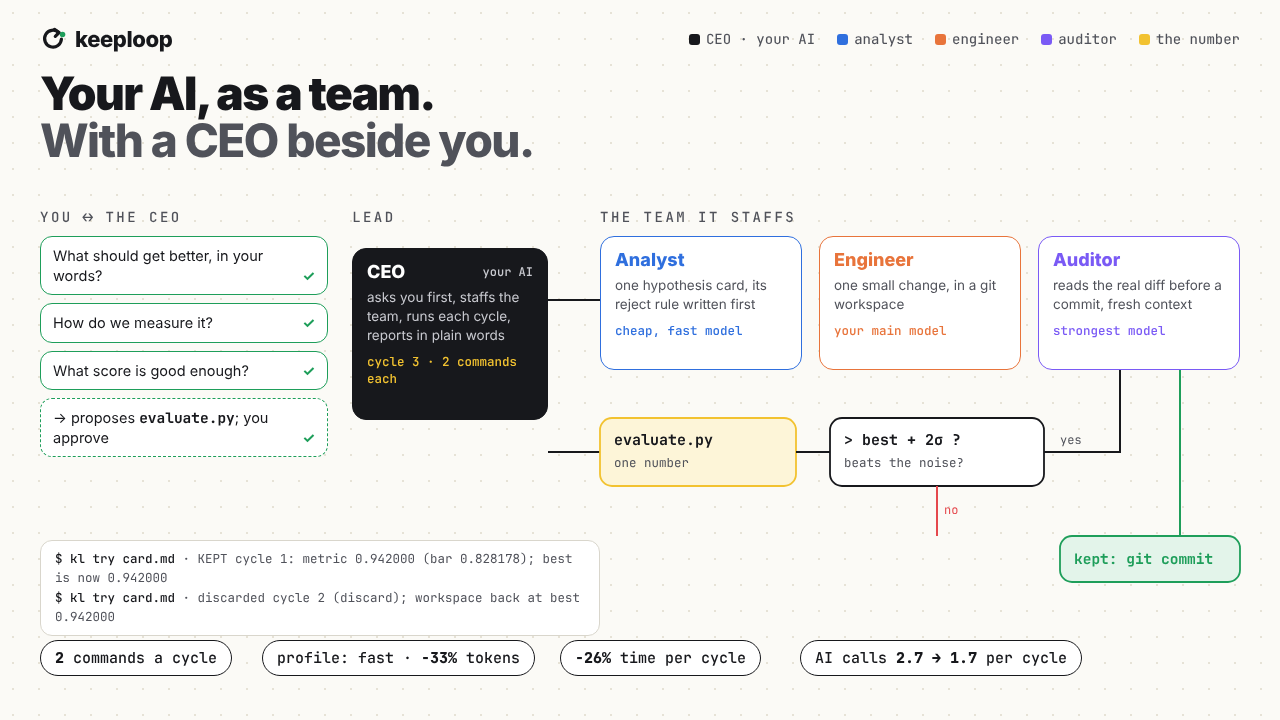
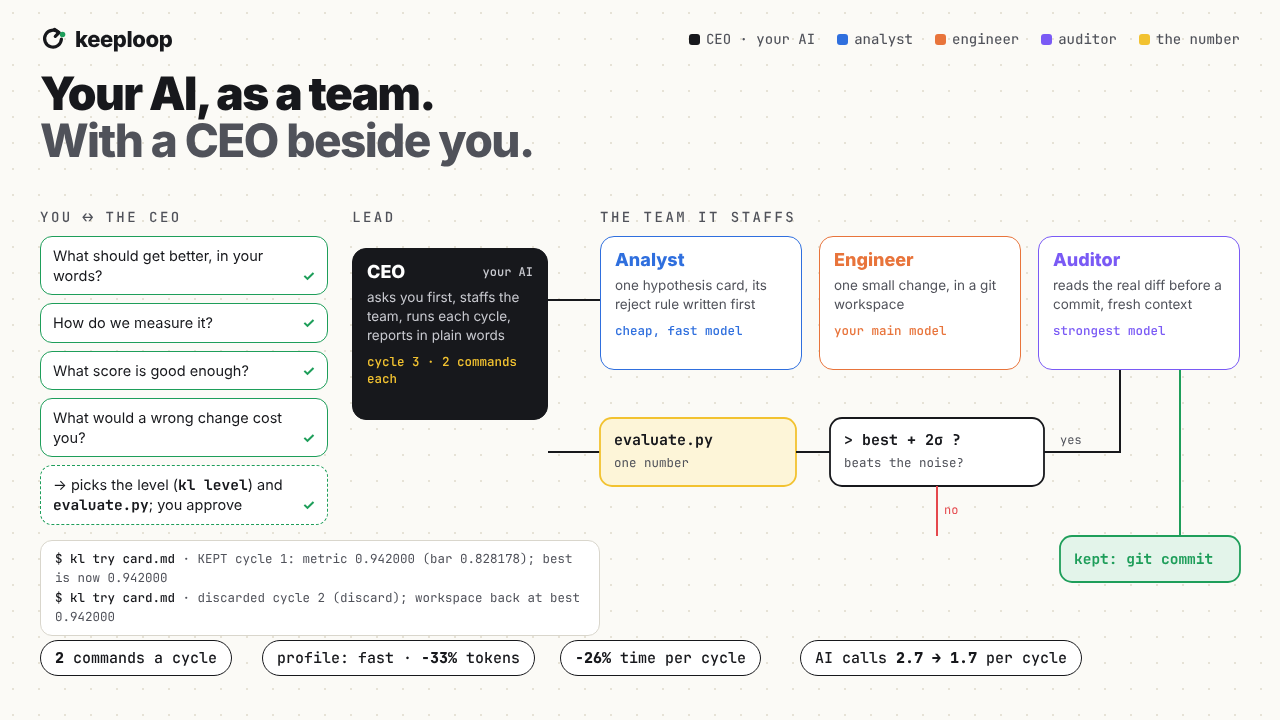
The CEO sizes the loop to the job: kl level, light / fast / rigorous
The first-time interview (AGENTS.md, BOOTSTRAP.md) also asks what a wrong change would
cost. kl level --stakes low|medium|high [--apply] turns that answer and the score's noise
into loop.profile: light (3 cycles max, stop after 2 without a keep, one baseline run, no
re-run, fewer AI calls), fast, or rigorous (5 noise runs, a re-run and an Auditor verdict
on every keep: new loop.audit_every_keep for kl try). Lessons, the fence, the gates and
the brakes are the same at every level. keeploop-lite asks the same in setup and starts
in careful mode for something that goes out once (en/vi/zh, full and mini). The hero
shows the fourth question. 263 tests.

Claude-Session: https://claude.ai/code/session_01F8TWfmCDGSQrjhe7FrjWFp

Changed region(s): [[0.0312, 0.6417, 0.2188, 0.7333], [0.0312, 0.55, 0.2188, 0.6417]]

diff --git a/tools/figure/hero.html b/tools/figure/hero.html
@@ -77,7 +77,7 @@ const Q = D.hero.questions.map((q, i) => {
   d.innerHTML = `${q}<i>✓</i>`; qs.appendChild(d); return d;
 });
 const approve = document.createElement("div"); approve.className = "q";
-approve.style.borderStyle = "dashed"; approve.innerHTML = `→ proposes <b class="mono">evaluate.py</b>; you approve<i>✓</i>`;
+approve.style.borderStyle = "dashed"; approve.innerHTML = `→ picks the level (<b class="mono">kl level</b>) and <b class="mono">evaluate.py</b>; you approve<i>✓</i>`;
 qs.appendChild(approve); Q.push(approve);
 
 /* the line a change runs: evaluate.py -> the keep gate -> commit or reset */

diff --git a/kl.py b/kl.py
@@ -887,7 +887,8 @@ def _try_open(c, a) -> int:
         return _try_discard(c, a, "metric did not beat the keep bar")
     heavy, tag = cy["gate"]["heavy"], cy["gate"]["diff"]
     why = "heavy change" if heavy else (
-        None if _decisive(best["metric"], bar, metric) else "the gain is not decisive")
+        "this project audits every keep (loop.audit_every_keep)" if c.loop_cfg.get("audit_every_keep")
+        else None if _decisive(best["metric"], bar, metric) else "the gain is not decisive")
     if why and not a.audit_verdict:
         print(f"WAIT audit required ({why}): give a fresh-context Auditor the card, `git -C "
               f"{_short(c, c.workspace)} diff`, metric {metric:.6f} and `DIFF: {tag}`; save its reply outside "
@@ -1470,6 +1471,10 @@ def parser() -> argparse.ArgumentParser:
     s = sub.add_parser("recall", help="BM25 over lessons, hypotheses, debates, questions, ledger")
     s.add_argument("query")
     s.add_argument("--top", type=int, default=5)
+    s = sub.add_parser("level", help="the CEO's choice of light / fast / rigorous from the stakes and the noise")
+    s.add_argument("--stakes", required=True, choices=list(STAKES),
+                   help="what a wrong change costs: " + "; ".join(f"{k} = {v}" for k, v in STAKES.items()))
+    s.add_argument("--apply", action="store_true", help="write loop.profile in team.yaml")
     s = sub.add_parser("doctor", help="init-time: run evaluate.py N times, report sigma and what it means")
     s.add_argument("--runs", type=int, default=5)
     s.add_argument("--want", type=float, metavar="GAIN", help="the smallest real gain you care about")
@@ -1558,6 +1563,72 @@ def doctor_text(runs: list[float], loop_cfg: dict, want: float | None, secs: flo
     return out
 
 
+STAKES = {
+    "low": "a draft or a personal file you can redo",
+    "medium": "something other people use, that you can still roll back",
+    "high": "work people rely on, or a result you will publish or ship",
+}
+
+
+def level_for(stakes: str, sigma: float) -> tuple[str, list[str]]:
+    """The CEO's choice of `loop.profile` -> (profile, reasons). Pure: the user's answer
+    about stakes, and the evaluation's measured noise."""
+    if stakes == "high":
+        return "rigorous", ["a wrong keep is costly: 5 noise runs, a re-run before every keep, "
+                            "an Auditor verdict on every keep, the full Analyst"]
+    if stakes == "low" and sigma == 0:
+        return "light", ["a wrong keep is cheap to undo and the score does not move between runs: "
+                         "at most 3 cycles, stop after 2 without a keep, one baseline run, "
+                         "no re-run, fewer AI calls"]
+    why = ["fewer AI calls and shorter prompts, the full keep law"]
+    if stakes == "low":
+        why.append(f"not light: the score moves between runs (sigma {sigma:.6f}), so the noise "
+                   "is still measured and a keep is re-run")
+    return "fast", why
+
+
+def _set_profile(team: Path, name: str) -> None:
+    text = team.read_text(encoding="utf-8")
+    if re.search(r"^  profile:.*$", text, re.M):
+        text = re.sub(r"^  profile:.*$", f"  profile: {name}", text, count=1, flags=re.M)
+    elif re.search(r"^loop:[ \t]*$", text, re.M):
+        text = re.sub(r"^loop:[ \t]*\n", f"loop:\n  profile: {name}\n", text, count=1, flags=re.M)
+    else:
+        text = text.rstrip("\n") + f"\n\nloop:\n  profile: {name}\n"
+    team.write_text(text, encoding="utf-8")
+
+
+def cmd_level(c, a) -> int:
+    best = R._read_json(c.state / "best.json")
+    if best.get("metric") is not None:
+        sigma, src = float(best.get("sigma") or 0.0), f"baseline ({c.loop_cfg['noise_runs']} runs)"
+    else:  # not begun: measure, like kl doctor, without logging anything
+        if problem := R.workspace_error(c.root, c.workspace):
+            raise Refuse(problem)
+        runs = []
+        for _ in range(3):
+            metric, error = _evaluate(c)
+            if metric is None:
+                raise Refuse(f"evaluate.py failed: {error}")
+            runs.append(metric)
+        sigma, src = statistics.pstdev(runs), "3 runs just now"
+    name, why = level_for(a.stakes, sigma)
+    print(f"stakes: {a.stakes} ({STAKES[a.stakes]}); score noise: sigma {sigma:.6f} from {src}")
+    print(f"level: {name}")
+    print("\n".join(f"  {w}" for w in why))
+    print("  always on: lessons (a mistake is never repeated), the fence, the gates, "
+          "loop.target and loop.stall_cycles")
+    cur = (c.team.get("loop") or {}).get("profile")
+    if a.apply:
+        _set_profile(c.root / "team.yaml", name)
+        print(f"team.yaml: loop.profile {cur or '(none)'} -> {name}"
+              + ("; run `" + kl() + " begin --accept-changes` if a fence is set" if (c.state / "fence.json").exists() else ""))
+    else:
+        print(f"to use it: `{kl()} level --stakes {a.stakes} --apply` (writes loop.profile in team.yaml)"
+              + (f"; now: {cur}" if cur else ""))
+    return 0
+
+
 def cmd_doctor(c, a) -> int:
     if problem := R.workspace_error(c.root, c.workspace):
         raise Refuse(problem)
@@ -1605,7 +1676,7 @@ def cmd_import_lite(argv: list[str]) -> int:
 COMMANDS = {"begin": cmd_begin, "status": cmd_status, "card": cmd_card, "check": cmd_check,
             "eval": cmd_eval, "audit": cmd_audit, "keep": cmd_keep, "discard": cmd_discard,
             "staff": cmd_staff, "pack": cmd_pack, "report": cmd_report, "slow": cmd_slow, "debate": cmd_debate, "cite": cmd_cite,
-            "map": cmd_map, "recall": cmd_recall, "doctor": cmd_doctor, "next": cmd_next,
+            "map": cmd_map, "recall": cmd_recall, "doctor": cmd_doctor, "level": cmd_level, "next": cmd_next,
             "try": cmd_try, "handoff": cmd_handoff, "apply": cmd_apply}
 
 

diff --git a/tests/test_level.py b/tests/test_level.py
@@ -1,0 +1,87 @@
+"""The CEO's choice of how heavy the loop is: `kl level --stakes low|medium|high`.
+
+Run:  python -X utf8 -m unittest discover -s tests
+"""
+
+import subprocess
+import sys
+import tempfile
+import unittest
+from pathlib import Path
+
+ROOT = Path(__file__).resolve().parents[1]
+sys.path.insert(0, str(ROOT))
+
+import kl as K  # noqa: E402
+import run as R  # noqa: E402
+import scaffold  # noqa: E402
+from prepare import CONFIG, PROFILES  # noqa: E402
+
+
+def kl(*args):
+    return subprocess.run([sys.executable, "-X", "utf8", str(ROOT / "kl.py"), *map(str, args)],
+                          capture_output=True, text=True, encoding="utf-8")
+
+
+class TestRule(unittest.TestCase):
+    def test_stakes_and_noise_pick_the_level(self):
+        self.assertEqual(K.level_for("low", 0.0)[0], "light")
+        self.assertEqual(K.level_for("low", 0.01)[0], "fast")  # noisy: the noise is still measured
+        self.assertEqual(K.level_for("medium", 0.0)[0], "fast")
+        self.assertEqual(K.level_for("high", 0.0)[0], "rigorous")
+        self.assertEqual(K.level_for("high", 0.02)[0], "rigorous")
+
+    def test_profiles_only_set_known_keys_and_never_switch_off_safety(self):
+        for name, preset in PROFILES.items():
+            self.assertTrue(set(preset) <= set(CONFIG), name)
+            for safety in ("replay_on_keep", "max_diff_lines", "max_consecutive_crashes"):
+                self.assertNotIn(safety, preset, name)  # lessons, gates and brakes stay as set
+        self.assertEqual(PROFILES["rigorous"]["noise_runs"], 5)
+        self.assertTrue(PROFILES["rigorous"]["audit_every_keep"])
+        self.assertLessEqual(PROFILES["light"]["max_iterations"], 3)
+
+
+class TestCommand(unittest.TestCase):
+    def setUp(self):
+        self._tmp = tempfile.TemporaryDirectory()
+        self.addCleanup(self._tmp.cleanup)
+        self.proj = Path(self._tmp.name) / "p"
+        scaffold.init(self.proj, rewrite=False, src=ROOT)
+
+    def test_recommends_then_applies_and_the_baseline_follows(self):
+        out = kl("--root", self.proj, "level", "--stakes", "low")
+        self.assertEqual(out.returncode, 0, out.stdout + out.stderr)
+        self.assertIn("level: light", out.stdout)
+        self.assertIn("always on: lessons", out.stdout)
+        self.assertNotIn("profile: light", (self.proj / "team.yaml").read_text(encoding="utf-8"))
+        out = kl("--root", self.proj, "level", "--stakes", "low", "--apply")
+        self.assertIn("loop.profile (none) -> light", out.stdout)
+        self.assertEqual(R.project_config(self.proj)["loop_cfg"]["noise_runs"], 1)
+        out = kl("--root", self.proj, "begin")
+        self.assertIn("(1 runs)", out.stdout)  # light: one baseline run, no noise measurement
+        out = kl("--root", self.proj, "level", "--stakes", "high", "--apply")
+        self.assertIn("light -> rigorous", out.stdout)
+        cfg = R.project_config(self.proj)["loop_cfg"]
+        self.assertTrue(cfg["audit_every_keep"] and cfg["noise_runs"] == 5)
+
+    def test_rigorous_try_waits_for_an_auditor_on_a_decisive_gain(self):
+        import json
+        kl("--root", self.proj, "level", "--stakes", "high", "--apply")
+        kl("--root", self.proj, "begin")
+        card = Path(self._tmp.name) / "card.md"
+        card.write_text("HYPOTHESIS: A learning rate near 0.03 scores higher than 0.01.\n"
+                        "ALTERNATIVES: noise; the evaluation is deterministic.\n"
+                        "CHANGE: set learning_rate to 0.03.\nEXPECT: the metric rises.\n"
+                        "REJECT IF: the metric does not beat the keep bar.\nMISSING: none\n",
+                        encoding="utf-8")
+        cfg = self.proj / ".keeploop" / "workspace" / "config.json"
+        data = json.loads(cfg.read_text(encoding="utf-8"))
+        data["learning_rate"] = 0.03
+        cfg.write_text(json.dumps(data, indent=2), encoding="utf-8")
+        out = kl("--root", self.proj, "try", card)
+        self.assertEqual(out.returncode, 3, out.stdout + out.stderr)  # waiting for a verdict
+        self.assertIn("audits every keep", out.stdout)
+
+
+if __name__ == "__main__":
+    unittest.main()

diff --git a/prepare.py b/prepare.py
@@ -63,13 +63,30 @@ CONFIG = {
     "auto_cards": False,            # an untested program.md hypothesis becomes the card: no Analyst call
     "confirm_skip_z": 0.0,          # skip the confirm re-run of a light change > this many sigma over best; 0 = off
     "eval_stderr_handle": False,    # a cut scorer-stderr excerpt names the file that holds all of it
+    "audit_every_keep": False,      # `kl try` asks for an Auditor verdict on every keep (headless always audits)
 }
 
 # `loop.profile: NAME` presets (run.project_config: CONFIG < profile < explicit loop: keys).
 # "fast" = fewer AI calls and shorter prompts, same keep law. Not in it: confirm_skip_z
 # (it saves an evaluation, not an AI call, and its safety argument needs roughly normal
 # noise; see run.confirm_skippable).
+# The CEO picks one with `kl level --stakes low|medium|high` after asking the user how
+# much a wrong change would cost (AGENTS.md). Every level keeps the lessons, the fence,
+# the gates and the target/stall brakes; a level only changes how much is measured,
+# re-run and audited, and how many AI calls a cycle makes.
+_LEAN = {
+    "fused": True,
+    "auto_cards": True,
+    "repo_map_max_chars": 1200,     # ~300 tokens: a pointer; the agent reads files itself
+    "ledger_tail_for_prompt": 3,    # recency only; "already tested" carries the rejected ideas
+    "recall_top_k": 4,              # the 4 most relevant open lessons (checked ones run anyway)
+    "eval_stderr_max_chars": 400,   # the excerpt; the full text is one file read away
+    "eval_stderr_handle": True,
+}
 PROFILES = {
+    # small, reversible work with a deterministic score (a draft, a script, a config):
+    # few cycles, stop early, no noise measurement (one baseline run; sigma is 0)
+    "light": {**_LEAN, "max_iterations": 3, "stall_cycles": 2, "noise_runs": 1, "confirm_keep": False},
     "fast": {
         "fused": True,
         "auto_cards": True,
@@ -79,6 +96,9 @@ PROFILES = {
         "eval_stderr_max_chars": 400,   # the excerpt; the full text is one file read away
         "eval_stderr_handle": True,
     },
+    # work people rely on, or a claim you will publish: measure the noise properly, re-run
+    # before every keep, an Auditor verdict on every keep, the full Analyst
+    "rigorous": {"noise_runs": 5, "confirm_keep": True, "audit_every_keep": True},
 }
 
 # The demo workspace: parameters of a toy training run. For a real project,

diff --git a/tools/render_figure.py b/tools/render_figure.py
@@ -134,16 +134,16 @@ def hero_data() -> dict:
     wall = 1 - fast["wall_s_per_cycle_median"] / slow["wall_s_per_cycle_median"]
     calls = lambda b: sum(b["calls_per_cycle_median"].values())  # noqa: E731
     t = {"reset": 0.9, "ask": 1.0}
-    t["team"] = round(t["ask"] + 4 * 0.75 + 0.5, 2)
+    t["team"] = round(t["ask"] + 5 * 0.75 + 0.5, 2)
     t["cycle"] = round(t["team"] + 2.3, 2)
     t["stats"] = round(t["cycle"] + 5.2, 2)
     t["end"] = round(t["stats"] + 2.6, 2)
     esc = lambda s: s.replace("&", "&amp;").replace("<", "&lt;")  # noqa: E731
     return {
         # the CEO's first-time questions (AGENTS.md: what "better" means, how to measure
-        # it, what score is good enough), asked in one message
+        # it, what score is good enough, what a wrong change would cost), asked in one message
         "questions": ["What should get better, in your words?", "How do we measure it?",
-                      "What score is good enough?"],
+                      "What score is good enough?", "What would a wrong change cost you?"],
         "subs": {"ask": "It asks you first.", "team": "It staffs the team.",
                  "cycle": "Two commands a cycle.", "fast": "Fewer calls, fewer tokens.",
                  "done": "With a CEO beside you."},

diff --git a/tests/test_launch.py b/tests/test_launch.py
@@ -131,7 +131,8 @@ class TestFigure(unittest.TestCase):
         fast = (ROOT / "docs" / "assets" / "demo-run" / "fastpath.txt").read_text(encoding="utf-8")
         self.assertIn("KEPT cycle 1", fast)  # the hero's session lines are a real run
         agents = (ROOT / "AGENTS.md").read_text(encoding="utf-8")
-        for asked in ('what\n"better" means', "how to measure it", "what score is good enough"):
+        for asked in ('what\n"better" means', "how to measure it", "what score is good enough",
+                      "what a wrong change would cost"):
             self.assertIn(asked, agents)  # the hero's three questions are AGENTS.md's
         for page in ("readme.html", "hero.html", "x.html"):
             html = (ROOT / "tools" / "figure" / page).read_text(encoding="utf-8")

diff --git a/docs/SPEC.md b/docs/SPEC.md
@@ -191,7 +191,8 @@ or the evaluation runner, so a `loop:` entry has no effect on them.
 | `max_iterations` | 20 | yes | Cycles per run; `--iterations` overrides |
 | `keep_threshold` | 0.0 | yes | Minimum gain relative to `abs(best)` |
 | `confirm_keep` | true | yes | Re-run before a keep when sigma > 0 (heavy always re-runs) |
-| `profile` | none | yes | `fast` sets `fused: true`, `auto_cards: true`, `repo_map_max_chars: 1200`, `ledger_tail_for_prompt: 3`, `recall_top_k: 4`, `eval_stderr_max_chars: 400`, `eval_stderr_handle: true`. Precedence: defaults, then the profile, then explicit `loop:` keys. An unknown name is a startup error |
+| `audit_every_keep` | false | yes (`kl try`) | Every keep needs an Auditor verdict, decisive or not (the headless loop audits every keep anyway). Set by `profile: rigorous` |
+| `profile` | none | yes | `light` (small, reversible work with a deterministic score: the `fast` caps plus `max_iterations: 3`, `stall_cycles: 2`, `noise_runs: 1`, `confirm_keep: false`), `rigorous` (`noise_runs: 5`, `confirm_keep: true`, `audit_every_keep: true`, the full Analyst), or `fast`, which sets `fused: true`, `auto_cards: true`, `repo_map_max_chars: 1200`, `ledger_tail_for_prompt: 3`, `recall_top_k: 4`, `eval_stderr_max_chars: 400`, `eval_stderr_handle: true`. Precedence: defaults, then the profile, then explicit `loop:` keys. An unknown name is a startup error |
 | `fused` | false | yes (`run.py`) | One Engineer call writes the card (labelled lines in its reply) and implements it; no Analyst call. The card is parsed and checked before the evaluation; a missing or vague card is a crash and the edit is reset; a duplicate is dropped before the evaluation; a heavy card still goes to the critic |
 | `auto_cards` | false | yes (`run.py`) | The next untested `program.md` hypothesis becomes the card with no Analyst call (CHANGE "the smallest change that tests it", REJECT IF "the metric does not beat the keep bar"); a line naming a heavy file gets `TIER: heavy`; lines over 300 characters go to the Analyst |
 | `eval_stderr_handle` | false | yes (`run.py`) | A cut stderr excerpt ends with the path of `.keeploop/scorer_notes.json` (the full text) |
@@ -232,7 +233,11 @@ most relevant shared lessons within both caps; nothing is injected when it is of
 bar, decision); off by default. With `--mock`, a `mock_script.json` beside `team.yaml`
 (`[{"hypothesis": "...", "set": {...}}, ...]`) replaces the mock's built-in proposals.
 
-Init-time commands, never part of a cycle: `kl doctor [--runs N] [--want GAIN]` runs
+Init-time commands, never part of a cycle: `kl level --stakes low|medium|high [--apply]` is
+the CEO's choice of `loop.profile` from the user's answer about what a wrong change costs and
+the score's noise (sigma from the baseline, or 3 runs if not begun): high gives `rigorous`, low
+with sigma 0 gives `light`, anything else `fast`; `--apply` writes it into `team.yaml`. Lessons,
+the fence, the gates and the brakes are the same at every level. `kl doctor [--runs N] [--want GAIN]` runs
 `evaluate.py` N times (default 5, at least 3) and reports sigma and the smallest gain the
 keep bar lets through; `kl quickstart TEMPLATE` and `kl import-lite LEDGER` write a
 control folder. `kl report --html FILE | --svg FILE` draws the ledger (no model call).
@@ -534,7 +539,7 @@ filler slop patterns).
 - `python run.py --mock --iterations 5` exits 0 offline with keeps at cycles
   1, 2, 5, a discard at 3, a crash with lesson L-001 at 4, best metric 1.0
   (verdicts supported, supported, rejected, untested, supported).
-- `python -m unittest discover -s tests` passes in both default and `-X utf8` mode (currently 259 tests).
+- `python -m unittest discover -s tests` passes in both default and `-X utf8` mode (currently 263 tests).
 - `python scout.py --dry-run` exits 0 online and offline (manual check, no
   test).
 - `CHANGELOG.md` has a section for `prepare.__version__` (checked by

diff --git a/BOOTSTRAP.md b/BOOTSTRAP.md
@@ -58,10 +58,14 @@ measure ("make the tests faster", "raise the score"), run the cycle below
 yourself, without waiting for `/keeploop`. Default to 3 cycles, then
 report with `kl report`. First time in a project, if `evaluate.py` is
 still the demo, do not start the loop: ask the user, in plain words, what
-"better" means, how to measure it and what score is good enough (it
-becomes `loop.target`), then propose an `evaluate.py` for them to approve.
-Ask everything you need in one message; never make the user learn
-commands or flags.
+"better" means, how to measure it, what score is good enough (it becomes
+`loop.target`) and what a wrong change would cost them (a draft they can
+redo, something other people use, or work they will publish or ship), then
+propose an `evaluate.py` for them to approve. Their last answer sets how
+heavy the loop is: `python kl.py level --stakes low|medium|high --apply`
+picks light, fast or rigorous from it and from the score's noise; lessons,
+the fence and the gates stay on at every level. Ask everything you need in
+one message; never make the user learn commands or flags.
 
 **Measuring is not improving.** When the user asks where things stand (a
 number for a report or a handover, "how good is it now?"), measure and
@@ -100,9 +104,10 @@ ready to paste; you never write them yourself (see Hard rules):
    while it fails.
 4. The mission in `program.md`.
 
-Then run `python kl.py doctor`: it runs `evaluate.py` a few times and says how
-noisy it is and the smallest gain the keep bar lets through. Show its warnings to
-the human before going on. Then run `python kl.py begin`. Every keep is a commit
+Then run `python kl.py level --stakes ... --apply` with the user's answer about
+what a wrong change costs, and `python kl.py doctor`: it runs `evaluate.py` a few
+times and says how noisy it is and the smallest gain the keep bar lets through.
+Show its warnings to the human before going on. Then run `python kl.py begin`. Every keep is a commit
 on the `keeploop` branch of that worktree; the human merges the ones they want.
 
 To run a worked example instead: `python tools/make_sandbox.py examples/<name> <new short folder>`

diff --git a/AGENTS.md b/AGENTS.md
@@ -15,10 +15,14 @@ measure ("make the tests faster", "raise the score"), run the cycle below
 yourself, without waiting for `/keeploop`. Default to 3 cycles, then
 report with `kl report`. First time in a project, if `evaluate.py` is
 still the demo, do not start the loop: ask the user, in plain words, what
-"better" means, how to measure it and what score is good enough (it
-becomes `loop.target`), then propose an `evaluate.py` for them to approve.
-Ask everything you need in one message; never make the user learn
-commands or flags.
+"better" means, how to measure it, what score is good enough (it becomes
+`loop.target`) and what a wrong change would cost them (a draft they can
+redo, something other people use, or work they will publish or ship), then
+propose an `evaluate.py` for them to approve. Their last answer sets how
+heavy the loop is: `python kl.py level --stakes low|medium|high --apply`
+picks light, fast or rigorous from it and from the score's noise; lessons,
+the fence and the gates stay on at every level. Ask everything you need in
+one message; never make the user learn commands or flags.
 
 **Measuring is not improving.** When the user asks where things stand (a
 number for a report or a handover, "how good is it now?"), measure and
@@ -57,9 +61,10 @@ ready to paste; you never write them yourself (see Hard rules):
    while it fails.
 4. The mission in `program.md`.
 
-Then run `python kl.py doctor`: it runs `evaluate.py` a few times and says how
-noisy it is and the smallest gain the keep bar lets through. Show its warnings to
-the human before going on. Then run `python kl.py begin`. Every keep is a commit
+Then run `python kl.py level --stakes ... --apply` with the user's answer about
+what a wrong change costs, and `python kl.py doctor`: it runs `evaluate.py` a few
+times and says how noisy it is and the smallest gain the keep bar lets through.
+Show its warnings to the human before going on. Then run `python kl.py begin`. Every keep is a commit
 on the `keeploop` branch of that worktree; the human merges the ones they want.
 
 To run a worked example instead: `python tools/make_sandbox.py examples/<name> <new short folder>`

diff --git a/CHANGELOG.md b/CHANGELOG.md
@@ -63,6 +63,14 @@ release. The one-time PyPI setup and the steps are in
   scripted engineer applies the patch named on the card, so a dropped duplicate card
   never puts the analyst and engineer out of step.
 - AGENTS.md: run `kl doctor` before `kl begin` on a new project.
+- The CEO sizes the loop to the job. Its first-time interview also asks what a wrong change
+  would cost (a draft to redo, something others use, work to publish or ship), and
+  `kl level --stakes low|medium|high [--apply]` turns the answer and the score's noise into
+  `loop.profile`: `light` (at most 3 cycles, stop after 2 without a keep, one baseline run, no
+  re-run, fewer AI calls), `fast`, or `rigorous` (5 noise runs, a re-run and an Auditor
+  verdict on every keep). Lessons, the fence, the gates and the brakes stay on at every level.
+  keeploop-lite asks the same question in setup and starts in careful mode for something that
+  goes out once (en, vi, zh-CN, full and mini).
 - The fast path for your own AI: `kl next` (one brief instead of `status` + `recall`) and
   `kl try card.md` (card, gates, evaluation, keep or discard in one command). A routine
   cycle takes 2 `kl` commands instead of 6, and AGENTS.md opens with a fast-path section
